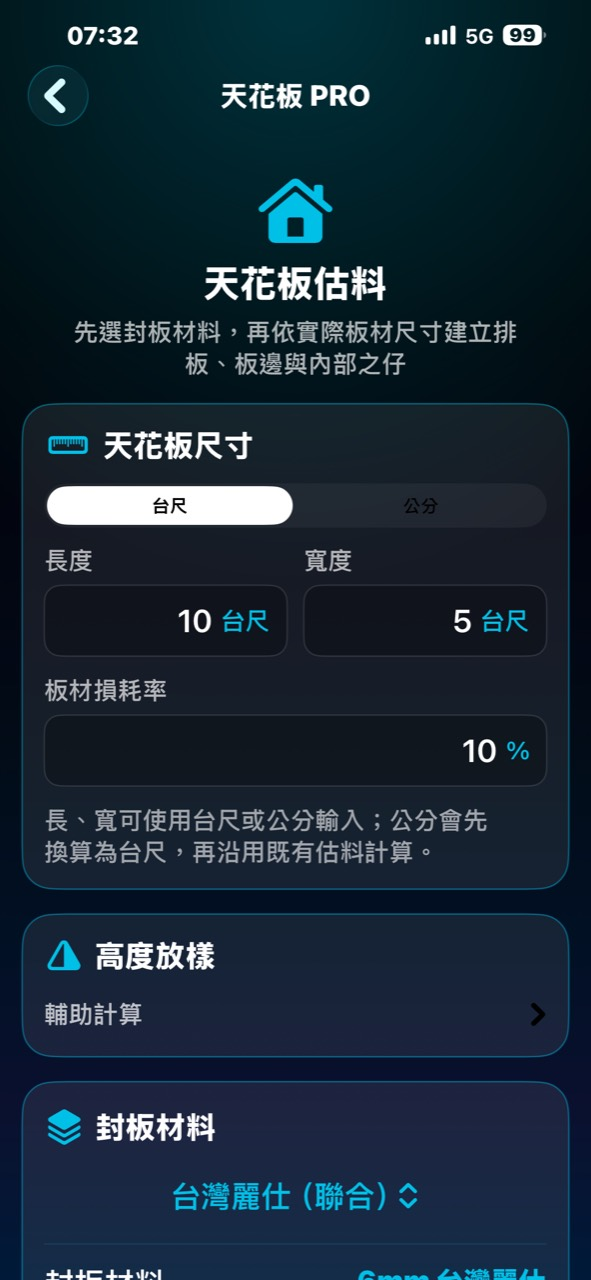
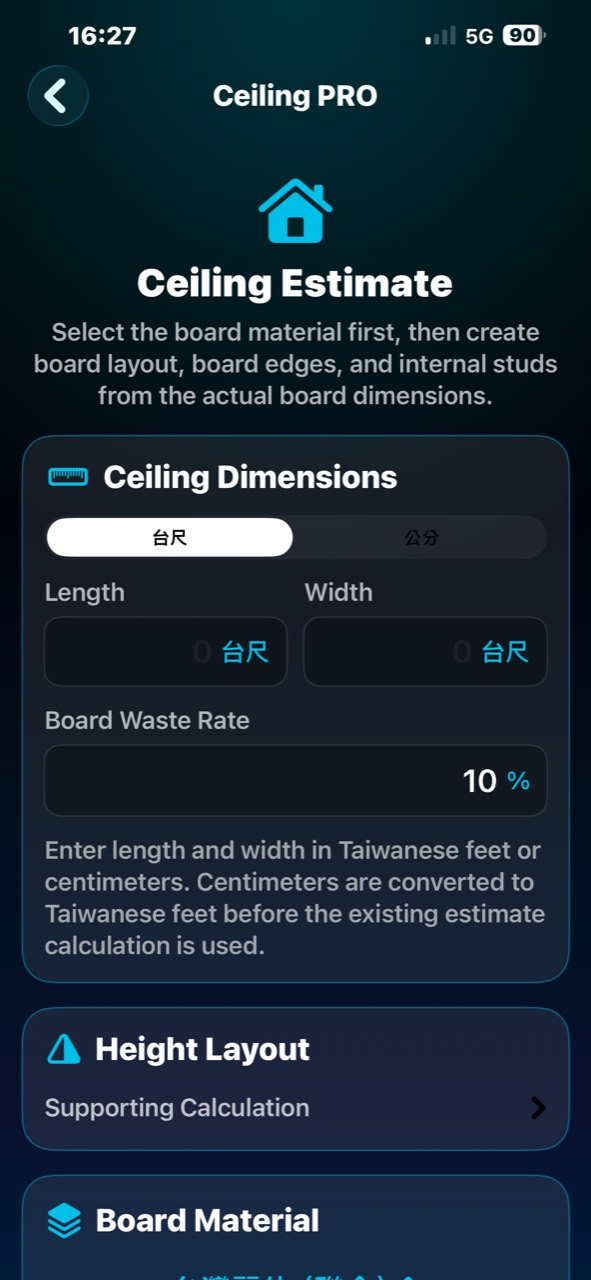
fix: publish app store download and qr code

diff --git a/index.html b/index.html
@@ -73,7 +73,7 @@
     .app-store-launch__button { display: inline-flex; align-items: center; justify-content: center; width: fit-content; min-height: 50px; padding: 12px 20px; color: #fffaf1; background: #1d1d1f; border: 1px solid rgba(29,29,31,.45); border-radius: 12px 12px 15px 12px; box-shadow: 0 5px 0 rgba(57,36,22,.15); font-family: "Songti TC", "STSong", serif; font-weight: 800; letter-spacing: .04em; text-decoration: none; transition: transform .2s ease, box-shadow .2s ease; }
     .app-store-launch__button:hover { transform: translateY(2px); box-shadow: 0 3px 0 rgba(57,36,22,.15); }
     .app-release-gallery { position: relative; z-index: 1; display: grid; grid-template-columns: minmax(0, 1fr) minmax(112px, .48fr); gap: 14px; width: min(540px, 100%); align-items: center; }
-    .app-release-gallery img { display: block; width: 100%; aspect-ratio: 9 / 19.5; object-fit: cover; object-position: top; border: 7px solid #6c4127; border-radius: 31px; background: #06111f; box-shadow: 13px 16px 0 rgba(105,57,27,.16); }
+    .app-release-gallery img { display: block; width: 100%; height: auto; max-width: 100%; aspect-ratio: auto; object-fit: contain; object-position: center; border: 7px solid #6c4127; border-radius: 31px; background: #06111f; box-shadow: 13px 16px 0 rgba(105,57,27,.16); }
     .app-release-gallery__secondary { display: grid; gap: 14px; }
     .app-release-gallery__secondary img { border-width: 5px; border-radius: 23px; box-shadow: 8px 10px 0 rgba(105,57,27,.13); }
     .app-release-note { margin: 15px 0 0; color: #79523a; font-size: .82rem; line-height: 1.65; }
@@ -163,7 +163,7 @@
     .app-promo-status { margin: 0; color: #805938; font-size: .82rem; font-weight: 800; line-height: 1.6; }
     .app-promo-reserve { display: flex; flex-wrap: wrap; gap: 8px; margin: 28px 0 0; padding: 0; list-style: none; }
     .app-promo-reserve li { padding: 6px 10px; color: #765237; background: rgba(255,255,255,.45); border: 1px solid rgba(114,70,37,.18); border-radius: 99px; font-size: .75rem; font-weight: 800; }
-    .app-promo-visual { position: relative; min-height: 560px; display: grid; place-items: center; }
+    .app-promo-visual { position: relative; min-height: 0; display: grid; place-items: center; }
     .app-promo-halo { position: absolute; width: min(95%, 450px); aspect-ratio: 1; border-radius: 50%; background: radial-gradient(circle, rgba(255,252,246,.95), rgba(220,181,143,.42) 52%, transparent 71%); }
     .app-promo-phone { position: relative; z-index: 1; width: min(296px, 70vw); padding: 14px; color: #fff7ea; background: #291b13; border: 8px solid #6c4127; border-radius: 43px 43px 49px 43px; box-shadow: 19px 22px 0 rgba(105,57,27,.19), inset 0 0 0 1px rgba(255,230,193,.22); transform: rotate(4deg); }
     .app-promo-phone::before { content: ""; display: block; width: 37%; height: 17px; margin: 0 auto 12px; border-radius: 99px; background: #120c08; }
@@ -235,8 +235,8 @@
     }
     @media (max-width: 620px) { .hero { padding: 20px 0 24px; } .hero-grid { gap: 38px; } .hero-copy { width: 100%; min-width: 0; padding: 0; } .hero-copy .lead { width: 100%; max-width: 100%; overflow-wrap: anywhere; word-break: break-all; } .hero-statement { margin-top: 21px; font-size: clamp(1.86rem, 9vw, 2.65rem); } .craft-visual { padding: 9px; box-shadow: 8px 10px 0 rgba(116,68,31,.15); } }
 
-    @media (max-width: 870px) { .app-promo { padding: 80px 0; } .app-promo-grid { grid-template-columns: 1fr; } .app-promo-visual { min-height: 520px; max-width: 520px; width: 100%; margin: 0 auto; } }
-    @media (max-width: 620px), (orientation: landscape) and (max-height: 620px) { .app-promo { padding: 67px 0; overflow-x: clip; } .app-promo .shell { width: min(100% - 30px, 1160px); margin-inline: auto; } .app-promo-grid { display: block; width: 100%; max-width: 100%; } .app-promo-copy, .app-promo-visual { width: 100%; max-width: 100%; min-width: 0; } .app-promo-eyebrow { font-size: .68rem; letter-spacing: .12em; } .app-promo h2 { max-width: 100%; font-size: clamp(1.85rem, 7.4vw, 2.18rem); line-height: 1.16; overflow-wrap: anywhere; word-break: break-all; } .app-promo-subtitle, .app-promo-description, .app-promo-status, .app-promo-reserve, .app-promo-reserve li, .app-release-note { max-width: 100%; overflow-wrap: anywhere; word-break: break-all; } .app-promo-actions { align-items: stretch; } .app-store-badge { width: 100%; justify-content: center; } .app-promo-visual { display: block; width: 100%; max-width: none; height: auto; min-height: 0; } .app-promo-halo { display: none; } .app-promo-phone { width: min(270px, 73vw); } .app-promo-screen { min-height: 385px; } .app-release-gallery { width: min(80vw, 340px); margin: 0 auto; grid-template-columns: minmax(0, 1fr); gap: 14px; align-items: start; justify-self: center; overflow: visible; transform: none; } .app-release-gallery > img { display: block; width: min(100%, 320px); max-width: 100%; margin: 0 auto; height: auto; aspect-ratio: auto; object-fit: contain; object-position: center; box-sizing: border-box; border-width: 5px; border-radius: 23px; box-shadow: 0 10px 0 rgba(105,57,27,.14); transform: none; } .app-release-gallery__secondary { display: grid; grid-template-columns: repeat(2, minmax(0, 1fr)); gap: 10px; width: 100%; } .app-release-gallery__secondary img { display: block; width: 100%; max-width: 100%; margin: 0 auto; height: auto; aspect-ratio: auto; object-fit: contain; object-position: center; box-sizing: border-box; border-width: 4px; border-radius: 18px; box-shadow: 0 8px 0 rgba(105,57,27,.13); transform: none; } .app-qr-card, .app-teaser-reserve { display: none; } }
+    @media (max-width: 870px) { .app-promo { padding: 80px 0; } .app-promo-grid { grid-template-columns: 1fr; } .app-promo-visual { min-height: 0; max-width: 520px; width: 100%; margin: 0 auto; } }
+    @media (max-width: 620px), (orientation: landscape) and (max-height: 620px) { .app-promo { padding: 67px 0; overflow-x: clip; } .app-promo .shell { width: min(100% - 30px, 1160px); margin-inline: auto; } .app-promo-grid { display: block; width: 100%; max-width: 100%; } .app-promo-copy, .app-promo-visual { width: 100%; max-width: 100%; min-width: 0; } .app-promo-eyebrow { font-size: .68rem; letter-spacing: .12em; } .app-promo h2 { max-width: 100%; font-size: clamp(1.85rem, 7.4vw, 2.18rem); line-height: 1.16; overflow-wrap: anywhere; word-break: break-all; } .app-promo-subtitle, .app-promo-description, .app-promo-status, .app-promo-reserve, .app-promo-reserve li, .app-release-note { max-width: 100%; overflow-wrap: anywhere; word-break: break-all; } .app-promo-actions { align-items: stretch; } .app-store-badge { width: 100%; justify-content: center; } .app-promo-visual { display: block; width: 100%; max-width: none; height: auto; min-height: 0; } .app-promo-halo { display: none; } .app-promo-phone { width: min(270px, 73vw); } .app-promo-screen { min-height: 385px; } .app-release-gallery { width: min(80vw, 340px); margin: 0 auto; grid-template-columns: minmax(0, 1fr); gap: 14px; align-items: start; justify-self: center; overflow: visible; transform: none; } .app-release-gallery > img { display: block; width: min(100%, 320px); max-width: 100%; margin: 0 auto; height: auto; aspect-ratio: auto; object-fit: contain; object-position: center; box-sizing: border-box; border-width: 5px; border-radius: 23px; box-shadow: 0 10px 0 rgba(105,57,27,.14); transform: none; } .app-release-gallery__secondary { display: grid; grid-template-columns: repeat(2, minmax(0, 1fr)); gap: 10px; width: 100%; } .app-release-gallery__secondary img { display: block; width: 100%; max-width: 100%; margin: 0 auto; height: auto; aspect-ratio: auto; object-fit: contain; object-position: center; box-sizing: border-box; border-width: 4px; border-radius: 18px; box-shadow: 0 8px 0 rgba(105,57,27,.13); transform: none; } .app-qr-card { display: none; } .app-qr-card[data-ready="true"] { position: relative; inset: auto; display: block; width: min(220px, 70vw); margin: 18px auto 0; transform: none; } .app-teaser-reserve { display: none; } }
   </style>
 </head>
 <body>
@@ -337,7 +337,7 @@
             <li>材料估算結果</li>
             <li>估料單摘要</li>
           </ul>
-          <p class="app-release-note">下載按鈕與 QR Code 將於正式公開網址完成核對後啟用，不使用未確認的 App ID 或暫時轉址。</p>
+          <p class="app-release-note">掃描 QR Code 或點擊按鈕，即可前往 App Store 下載。</p>
         </div>
         <div class="app-promo-visual" aria-label="宸匠木作工具箱真實 App 畫面與下載資訊">
           <div class="app-promo-halo" aria-hidden="true"></div>

diff --git a/en/index.html b/en/index.html
@@ -87,10 +87,10 @@
     .app-promo-reserve { display: flex; flex-wrap: wrap; gap: 9px 18px; margin: 26px 0 0; padding: 0; list-style: none; color: #70401f; font-size: .78rem; font-weight: 800; }
     .app-promo-reserve li::before { content: "◆"; margin-right: 7px; color: #b96a32; font-size: .58rem; }
     .app-release-note { margin: 15px 0 0; color: #79523a; font-size: .82rem; line-height: 1.65; }
-    .app-promo-visual { position: relative; min-height: 650px; display: flex; align-items: center; justify-content: center; }
+    .app-promo-visual { position: relative; min-height: 0; display: flex; align-items: center; justify-content: center; }
     .app-promo-halo { position: absolute; width: 78%; aspect-ratio: 1; border-radius: 50%; background: rgba(214,151,84,.2); filter: blur(3px); }
     .app-release-gallery { position: relative; z-index: 1; display: grid; grid-template-columns: minmax(0, 1fr) minmax(112px, .48fr); gap: 14px; width: min(540px, 100%); align-items: center; }
-    .app-release-gallery img { display: block; width: 100%; aspect-ratio: 9 / 19.5; object-fit: cover; object-position: top; border: 7px solid #6c4127; border-radius: 31px; background: #06111f; box-shadow: 13px 16px 0 rgba(105,57,27,.16); }
+    .app-release-gallery img { display: block; width: 100%; height: auto; max-width: 100%; aspect-ratio: auto; object-fit: contain; object-position: center; border: 7px solid #6c4127; border-radius: 31px; background: #06111f; box-shadow: 13px 16px 0 rgba(105,57,27,.16); }
     .app-release-gallery__secondary { display: grid; gap: 14px; }
     .app-release-gallery__secondary img { border-width: 5px; border-radius: 23px; box-shadow: 8px 10px 0 rgba(105,57,27,.13); }
     .app-qr-card { position: absolute; z-index: 2; right: max(-20px, -3vw); bottom: 38px; width: 164px; padding: 13px; color: #5d3720; background: #fffaf1; border: 1px solid rgba(105,61,29,.2); border-radius: 11px 18px 11px 17px; box-shadow: 10px 11px 0 rgba(105,57,27,.15); text-align: center; transform: rotate(-4deg); }
@@ -100,8 +100,8 @@
     .app-qr-placeholder span { display: grid; width: 78%; height: 78%; place-items: center; padding: 8px; color: #fffaf1; background: #54311e; border: 5px solid #fffaf1; font-size: .76rem; font-weight: 900; line-height: 1.4; }
     .app-qr-card[data-ready="true"] .app-qr-placeholder { display: none; }
     .app-qr-card p { margin: 10px 0 0; font-size: .7rem; font-weight: 900; line-height: 1.55; }
-    @media (max-width: 900px) { .app-promo-grid { grid-template-columns: 1fr; } .app-promo-visual { min-height: 610px; } }
-    @media (max-width: 620px), (orientation: landscape) and (max-height: 620px) { .app-promo { padding: 67px 0; overflow-x: clip; } .app-promo .shell { width: min(100% - 30px, 1160px); margin-inline: auto; } .app-promo-grid { display: block; width: 100%; max-width: 100%; } .app-promo-copy, .app-promo-visual { width: 100%; max-width: 100%; min-width: 0; } .app-promo h2 { max-width: 100%; font-size: clamp(1.28rem, 5.15vw, 1.72rem); line-height: 1.16; overflow-wrap: anywhere; word-break: normal; } .app-promo-eyebrow { font-size: .68rem; letter-spacing: .12em; } .app-promo-eyebrow, .app-promo-subtitle, .app-promo-description, .app-promo-status, .app-promo-reserve, .app-promo-reserve li, .app-release-note { max-width: 100%; overflow-wrap: anywhere; word-break: break-word; } .app-promo-actions { align-items: stretch; flex-direction: column; } .app-store-badge { width: 100%; justify-content: center; } .app-promo-status { max-width: none; } .app-promo-visual { display: block; width: 100%; max-width: none; height: auto; min-height: 0; } .app-promo-halo { display: none; } .app-release-gallery { width: min(80vw, 340px); margin: 0 auto; grid-template-columns: minmax(0, 1fr); gap: 14px; align-items: start; justify-self: center; overflow: visible; transform: none; } .app-release-gallery > img { display: block; width: min(100%, 320px); max-width: 100%; margin: 0 auto; height: auto; aspect-ratio: auto; object-fit: contain; object-position: center; box-sizing: border-box; border-width: 5px; border-radius: 23px; box-shadow: 0 10px 0 rgba(105,57,27,.14); transform: none; } .app-release-gallery__secondary { display: grid; grid-template-columns: repeat(2, minmax(0, 1fr)); gap: 10px; width: 100%; } .app-release-gallery__secondary img { display: block; width: 100%; max-width: 100%; margin: 0 auto; height: auto; aspect-ratio: auto; object-fit: contain; object-position: center; box-sizing: border-box; border-width: 4px; border-radius: 18px; box-shadow: 0 8px 0 rgba(105,57,27,.13); transform: none; } .app-qr-card { display: none; } }
+    @media (max-width: 900px) { .app-promo-grid { grid-template-columns: 1fr; } .app-promo-visual { min-height: 0; } }
+    @media (max-width: 620px), (orientation: landscape) and (max-height: 620px) { .app-promo { padding: 67px 0; overflow-x: clip; } .app-promo .shell { width: min(100% - 30px, 1160px); margin-inline: auto; } .app-promo-grid { display: block; width: 100%; max-width: 100%; } .app-promo-copy, .app-promo-visual { width: 100%; max-width: 100%; min-width: 0; } .app-promo h2 { max-width: 100%; font-size: clamp(1.28rem, 5.15vw, 1.72rem); line-height: 1.16; overflow-wrap: anywhere; word-break: normal; } .app-promo-eyebrow { font-size: .68rem; letter-spacing: .12em; } .app-promo-eyebrow, .app-promo-subtitle, .app-promo-description, .app-promo-status, .app-promo-reserve, .app-promo-reserve li, .app-release-note { max-width: 100%; overflow-wrap: anywhere; word-break: break-word; } .app-promo-actions { align-items: stretch; flex-direction: column; } .app-store-badge { width: 100%; justify-content: center; } .app-promo-status { max-width: none; } .app-promo-visual { display: block; width: 100%; max-width: none; height: auto; min-height: 0; } .app-promo-halo { display: none; } .app-release-gallery { width: min(80vw, 340px); margin: 0 auto; grid-template-columns: minmax(0, 1fr); gap: 14px; align-items: start; justify-self: center; overflow: visible; transform: none; } .app-release-gallery > img { display: block; width: min(100%, 320px); max-width: 100%; margin: 0 auto; height: auto; aspect-ratio: auto; object-fit: contain; object-position: center; box-sizing: border-box; border-width: 5px; border-radius: 23px; box-shadow: 0 10px 0 rgba(105,57,27,.14); transform: none; } .app-release-gallery__secondary { display: grid; grid-template-columns: repeat(2, minmax(0, 1fr)); gap: 10px; width: 100%; } .app-release-gallery__secondary img { display: block; width: 100%; max-width: 100%; margin: 0 auto; height: auto; aspect-ratio: auto; object-fit: contain; object-position: center; box-sizing: border-box; border-width: 4px; border-radius: 18px; box-shadow: 0 8px 0 rgba(105,57,27,.13); transform: none; } .app-qr-card { display: none; } .app-qr-card[data-ready="true"] { position: relative; inset: auto; display: block; width: min(220px, 70vw); margin: 18px auto 0; transform: none; } }
     .button { margin: 0; padding: 15px 25px; color: #fffaf1; background: linear-gradient(135deg, #ae6838, #784019); border: 1px solid rgba(67,35,15,.3); border-radius: 14px 14px 17px 14px; box-shadow: 0 7px 0 rgba(105,58,25,.17); font-family: "Songti TC", "STSong", serif; font-size: 1.08rem; font-weight: 800; letter-spacing: .09em; transition: transform .2s ease, box-shadow .2s ease; }
     .button:hover { transform: translateY(3px); box-shadow: 0 4px 0 rgba(105,58,25,.17); }
     .text-link { display: inline-flex; align-items: center; justify-content: center; min-width: 145px; padding: 13px 20px; color: #4b77aa; background: rgba(255,255,255,.42); border: 1px solid #bf936d; border-radius: 14px 14px 17px 14px; font-family: "Songti TC", "STSong", serif; font-size: 1.08rem; font-weight: 800; letter-spacing: .08em; text-decoration: none; }
@@ -309,7 +309,7 @@
           <ul class="app-promo-reserve" aria-label="App highlights">
             <li>Real app screens</li><li>Dimension input</li><li>Material results</li><li>Estimate summary</li>
           </ul>
-          <p class="app-release-note">The download button and QR code remain disabled until the official public URL is confirmed. No guessed App ID or temporary redirect is used.</p>
+          <p class="app-release-note">Scan the QR code or use the button to open the App Store.</p>
         </div>
         <div class="app-promo-visual" aria-label="Real Chen Jiang Woodworking Toolbox app screens and download information">
           <div class="app-promo-halo" aria-hidden="true"></div>

diff --git a/app-store-config.js b/app-store-config.js
@@ -1,5 +1,5 @@
 window.APP_STORE_CONFIG = {
-  appStoreUrl: '',
-  appStoreQrImageUrl: '',
-  appStoreAvailable: false
+  appStoreUrl: 'https://apps.apple.com/tw/app/%E5%AE%B8%E5%8C%A0%E6%9C%A8%E4%BD%9C%E5%B7%A5%E5%85%B7%E7%AE%B1/id6789951209',
+  appStoreQrImageUrl: 'https://chenjiangstudio.github.io/chenjiang-website/assets/app/chenjiang-app-store-qr.png',
+  appStoreAvailable: true
 };
